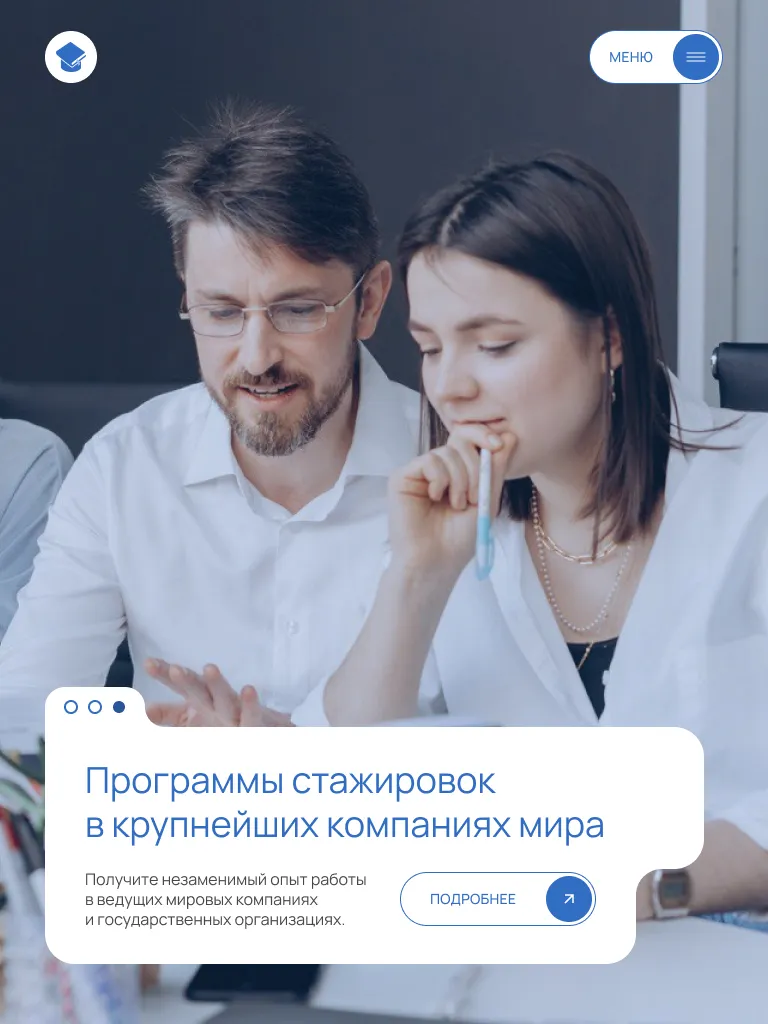
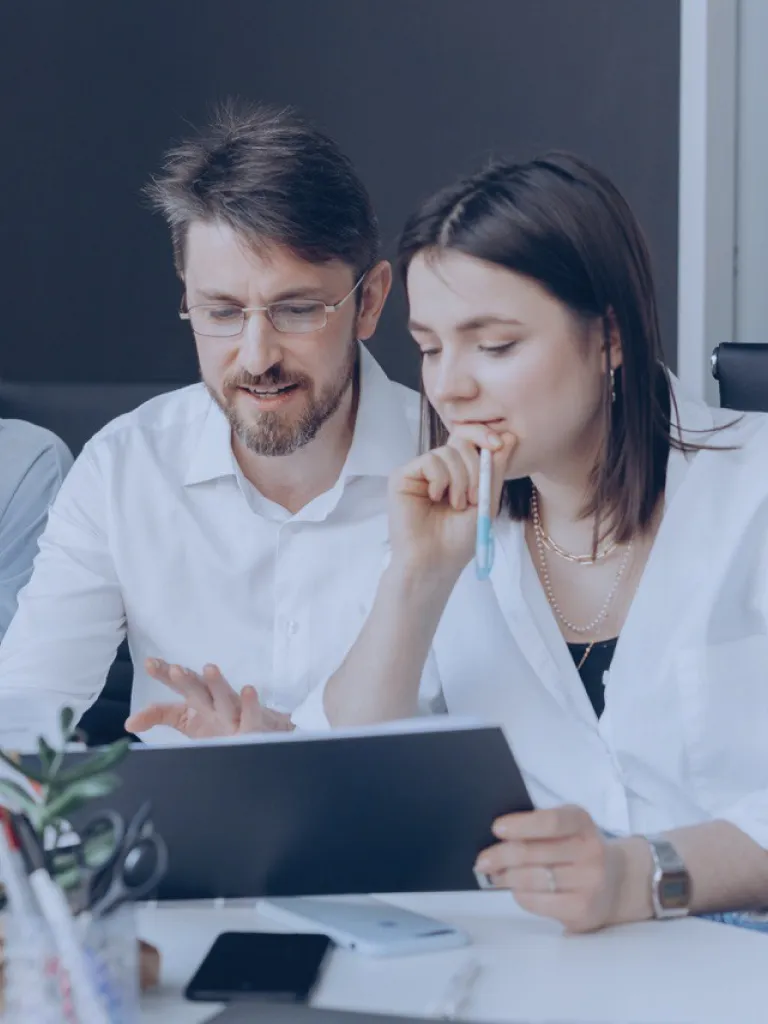
Верстает планшетную версию

Changed region(s): [[0.0312, 0.6562, 0.9375, 0.9688], [0.75, 0.0312, 0.9375, 0.0938], [0.0625, 0.0312, 0.125, 0.0938]]

diff --git a/source/sass/blocks/hero.scss b/source/sass/blocks/hero.scss
@@ -13,6 +13,12 @@
   flex-direction: column;
   justify-content: end;
   align-items: start;
+
+  @media ($tablet) {
+    position: relative;
+    min-height: 1024px;
+    padding: 110px 64px 60px 45px;
+  }
 }
 
 .hero__swiper-slide--experience {
@@ -25,6 +31,18 @@
     );
   background-repeat: no-repeat;
   background-size: cover;
+
+  @media ($tablet) {
+    background:
+      image-set(
+        url("../../img/hero/experience-tablet@1x.webp") type("image/webp") 1x,
+        url("../../img/hero/experience-tablet@2x.webp") type("image/webp") 2x,
+        url("../../img/hero/experience-tablet@1x.jpg") type("image/jpeg") 1x,
+        url("../../img/hero/experience-tablet@2x.jpg") type("image/jpeg") 2x
+      );
+    background-repeat: no-repeat;
+    background-size: cover;
+  }
 }
 
 .hero__swiper-slide--volunteering {
@@ -37,6 +55,18 @@
     );
   background-repeat: no-repeat;
   background-size: cover;
+
+  @media ($tablet) {
+    background:
+      image-set(
+        url("../../img/hero/volunteering-tablet@1x.webp") type("image/webp") 1x,
+        url("../../img/hero/volunteering-tablet@2x.webp") type("image/webp") 2x,
+        url("../../img/hero/volunteering-tablet@1x.jpg") type("image/jpeg") 1x,
+        url("../../img/hero/volunteering-tablet@2x.jpg") type("image/jpeg") 2x
+      );
+    background-repeat: no-repeat;
+    background-size: cover;
+  }
 }
 
 .hero__swiper-slide--internship {
@@ -49,6 +79,18 @@
     );
   background-repeat: no-repeat;
   background-size: cover;
+
+  @media ($tablet) {
+    background:
+      image-set(
+        url("../../img/hero/internship-tablet@1x.webp") type("image/webp") 1x,
+        url("../../img/hero/internship-tablet@2x.webp") type("image/webp") 2x,
+        url("../../img/hero/internship-tablet@1x.jpg") type("image/jpeg") 1x,
+        url("../../img/hero/internship-tablet@2x.jpg") type("image/jpeg") 2x
+      );
+    background-repeat: no-repeat;
+    background-size: cover;
+  }
 }
 
 .hero__paginations {
@@ -59,6 +101,11 @@
   gap: 12px;
   background-color: $white;
   border-radius: 12px 12px 0 0;
+
+  @media ($tablet) {
+    padding: 8px 20px 10px;
+    border-radius: 20px 20px 0 0;
+  }
 }
 
 .hero__pagination-button {
@@ -74,6 +121,11 @@
     background-color: $state-active;
     border-color: $state-active;
   }
+
+  @media ($tablet) {
+    width: 12px;
+    height: 12px;
+  }
 }
 
 .hero__title {
@@ -85,6 +137,13 @@
   color: $primary;
   background-color: $white;
   border-radius: 0 16px 16px 0;
+
+  @media ($tablet) {
+    padding: 31px 69px 23px 40px;
+    font-size: 36px;
+    line-height: 1.22;
+    border-radius: 0 30px 30px 0;
+  }
 }
 
 .hero__swiper-slide p {
@@ -98,12 +157,41 @@
   color: $text;
   background-color: $white;
   border-radius: 0 0 14px;
+
+  @media ($tablet) {
+    max-width: 100%;
+    padding: 0 266px 35px 40px;
+    font-size: 16px;
+    border-radius: 0 0 30px 30px;
+  }
+}
+
+.hero__swiper-slide p br {
+  @media ($tablet) {
+    display: none;
+  }
+}
+
+.hero__footer {
+  @media ($tablet) {
+    position: relative;
+    max-width: 90%;
+  }
 }
 
 .hero__button-container {
+  max-width: 184px;
   padding: 10px 15px;
   background-color: $white;
   border-radius: 0 0 14px 14px;
+
+  @media ($tablet) {
+    position: absolute;
+    top: -10px;
+    right: 25px;
+    max-width: 228px;
+    background-color: transparent;
+  }
 }
 
 .hero__link {
@@ -144,5 +232,19 @@
     mask-image: url("/__spritemap#sprite-arrow-thin-view");
     background-color: $white;
     translate: 0 -50%;
+  }
+
+  @media ($tablet) {
+    padding: 20px 80px 20px 30px;
+    font-size: 14px;
+
+    &::before {
+      width: 46px;
+      height: 46px;
+    }
+
+    &::after {
+      right: 22px;
+    }
   }
 }

diff --git a/source/index.html b/source/index.html
@@ -130,10 +130,13 @@
                 </ul>
 
                 <h2 class="hero__title">Глобальный профессиональный опыт обучения за рубежом</h2>
-                <p>Погрузитесь в академическую программу, проходя практику в разных городах, ощущая настоящий студенческий<br> стиль жизни!</p>
 
-                <div class="hero__button-container">
-                  <a class="hero__link" href="#">подробнее</a>
+                <div class="hero__footer">
+                  <p>Погрузитесь в академическую программу, проходя практику в разных городах, ощущая настоящий студенческий<br> стиль жизни!</p>
+
+                  <div class="hero__button-container">
+                    <a class="hero__link" href="#">подробнее</a>
+                  </div>
                 </div>
               </li>
 
@@ -157,11 +160,15 @@
                 </ul>
 
                 <h2 class="hero__title">Волонтёрские программы — внесите свой вклад в общество</h2>
-                <p>Возможности для преподавания, органического сельского хозяйства, устойчивого образа жизни и другое.</p>
 
-                <div class="hero__button-container">
-                  <a class="hero__link" href="#">подробнее</a>
+                <div class="hero__footer">
+                  <p>Возможности для преподавания, органического сельского хозяйства, устойчивого образа жизни и другое.</p>
+
+                  <div class="hero__button-container">
+                    <a class="hero__link" href="#">подробнее</a>
+                  </div>
                 </div>
+
               </li>
 
               <li class="hero__swiper-slide hero__swiper-slide--internship swiper-slide">
@@ -184,10 +191,13 @@
                 </ul>
 
                 <h2 class="hero__title">Программы стажировок в крупнейших компаниях мира</h2>
-                <p>Получите незаменимый опыт работы в ведущих мировых компаниях и государственных организациях.</p>
 
-                <div class="hero__button-container">
-                  <a class="hero__link" href="#">подробнее</a>
+                <div class="hero__footer">
+                  <p>Получите незаменимый опыт работы в ведущих мировых компаниях и государственных организациях.</p>
+
+                  <div class="hero__button-container">
+                    <a class="hero__link" href="#">подробнее</a>
+                  </div>
                 </div>
               </li>
 

diff --git a/source/sass/blocks/header.scss b/source/sass/blocks/header.scss
@@ -2,6 +2,10 @@
   position: relative;
   min-height: 568px;
   margin: 0 auto;
+
+  @media ($tablet) {
+    min-height: 1024px;
+  }
 }
 
 .header__content {
@@ -28,15 +32,24 @@
   overflow: hidden;
   opacity: 0;
   transition: width 0.3s, opacity 0.3s ease 0.1s, padding 0.3s;
+
+  @media ($tablet) {
+    top: 88px;
+    right: 45px;
+  }
 }
 
 .header__menu--open {
   right: 15px;
-  width: calc(100% - 30px);
+  width: 290px;
   padding: 31px 25px;
   opacity: 1;
   transition: width 0.3s, opacity 0.3s;
   z-index: 3;
+
+  @media ($tablet) {
+    right: 45px;
+  }
 }
 
 .header__button-container:not(.header__button-container--open):hover .header__line {
@@ -62,10 +75,15 @@
   &--open {
     position: absolute;
     top: 20px;
-    width: calc(100% - 30px);
+    width: 290px;
     background-color: $primary;
     transition: width 0.3s, background-color 0.3s;
     z-index: 3;
+  }
+
+  @media ($tablet) {
+    top: 31px;
+    right: 45px;
   }
 }
 
@@ -160,4 +178,9 @@
   position: absolute;
   top: 21px;
   left: 15px;
+
+  @media ($tablet) {
+    top: 32px;
+    left: 45px;
+  }
 }

diff --git a/source/sass/common/variables.scss b/source/sass/common/variables.scss
@@ -16,5 +16,5 @@ $state-error: #ff5e66;
 
 /* дисплей */
 
-$tablet: "min-wdith: 768px";
+$tablet: "min-width: 768px";
 $desktop: "min-width: 1440px";
